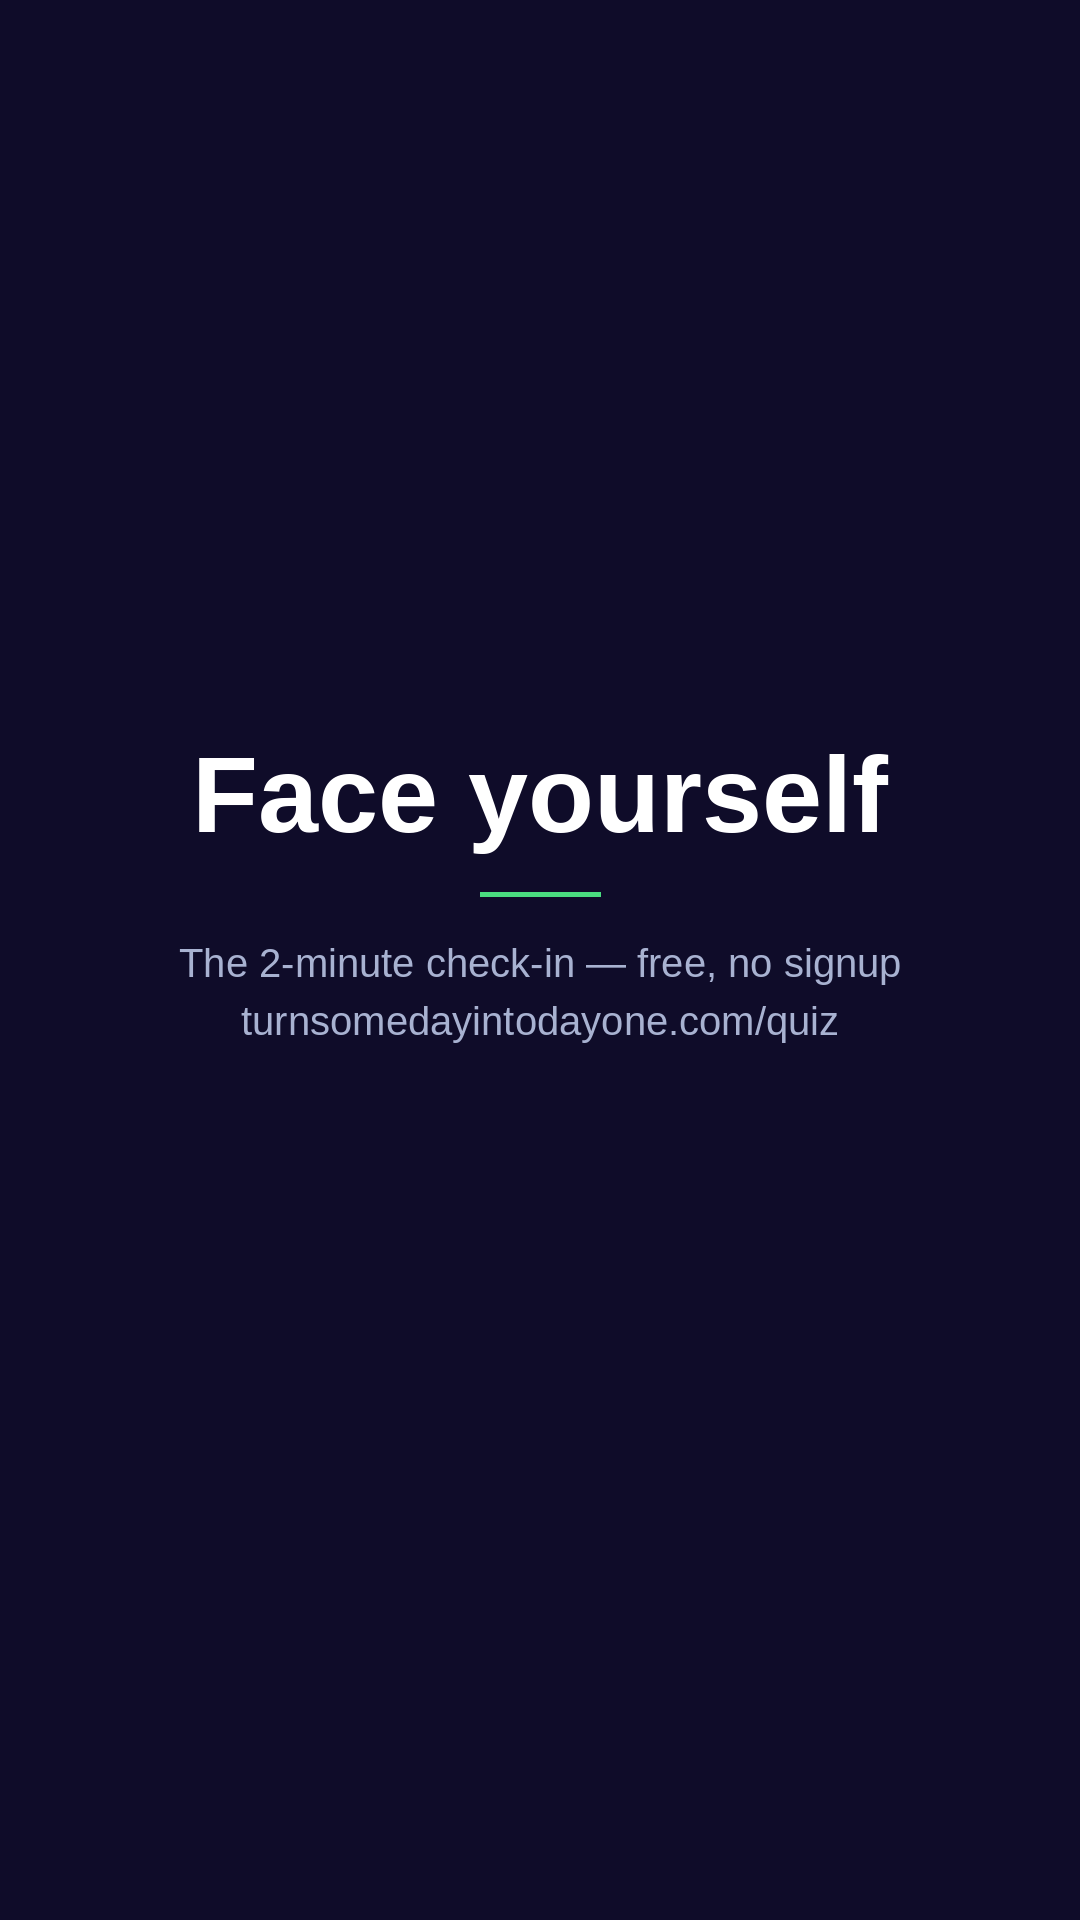
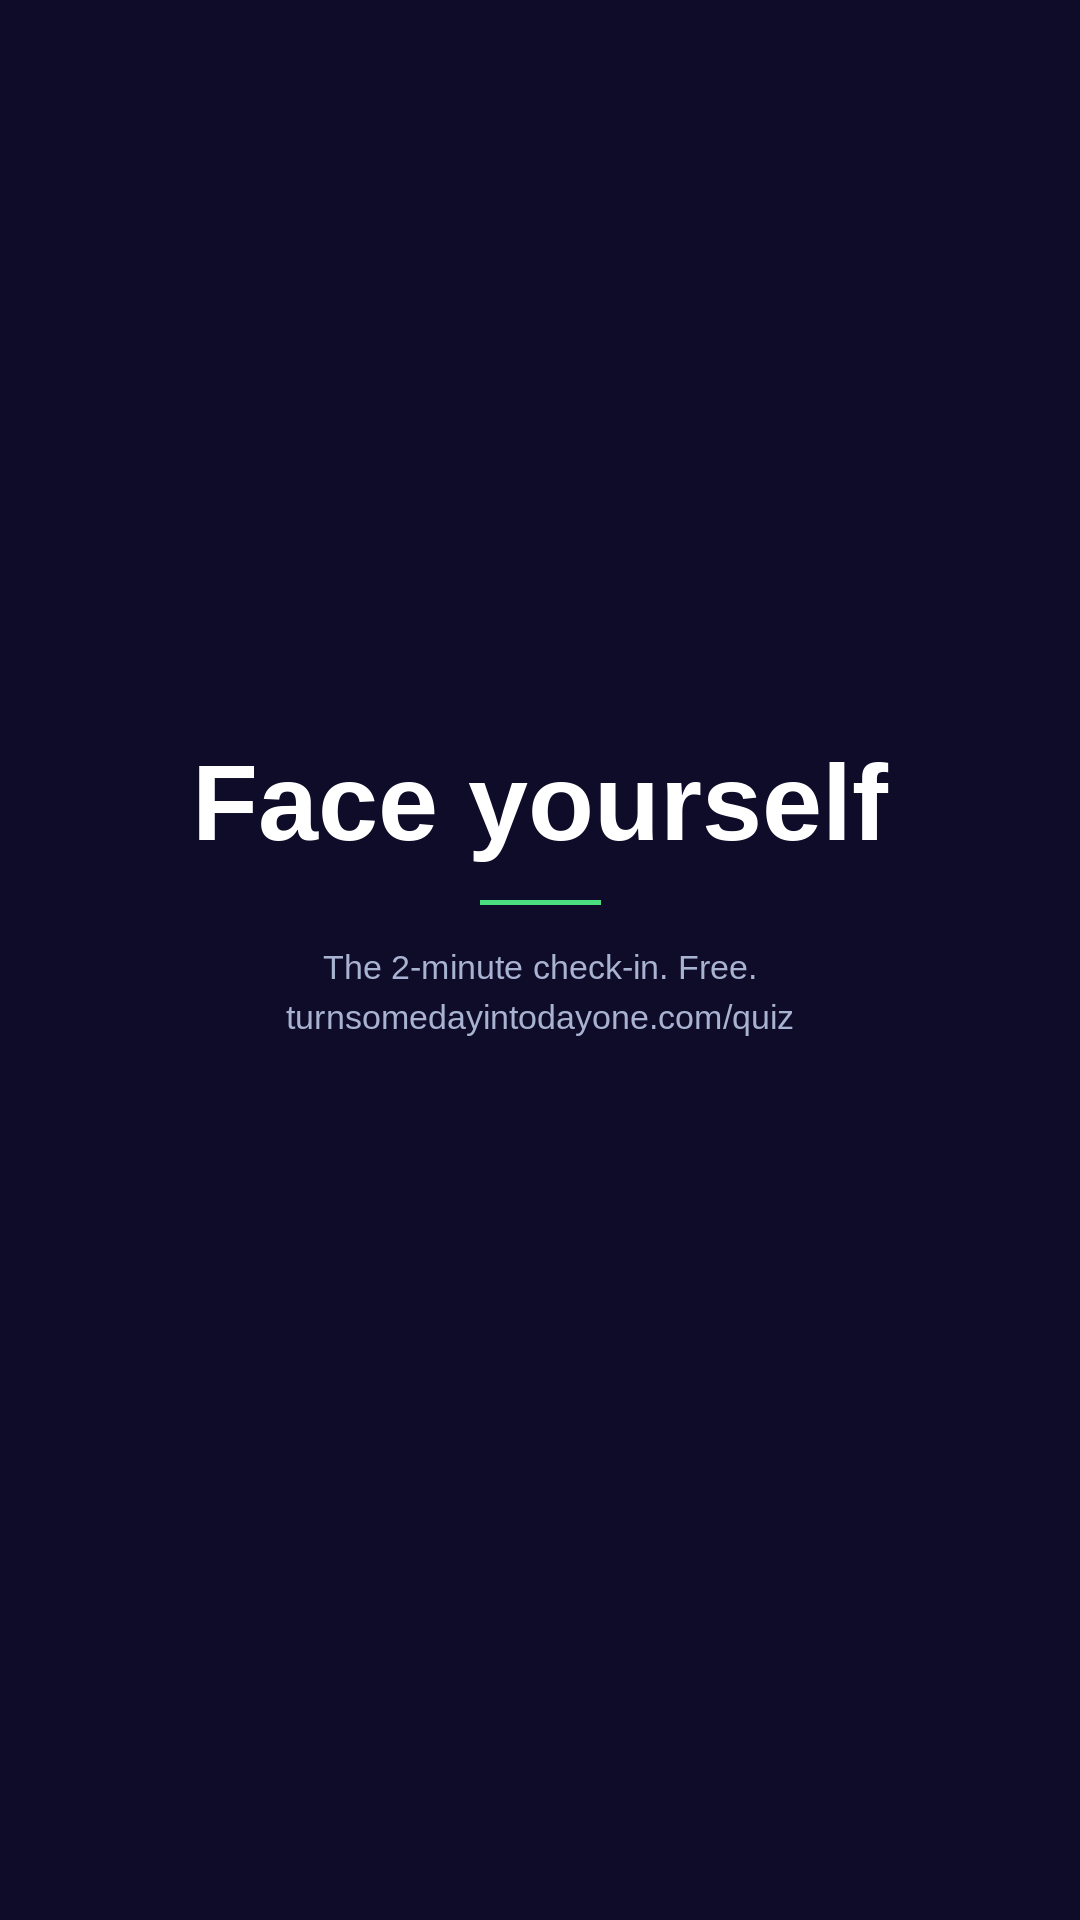
End cards: smaller sub-line, shorter copy

Changed region(s): [[0.2139, 0.4062, 0.825, 0.5625], [0.1833, 0.375, 0.3972, 0.4375], [0.7944, 0.375, 0.825, 0.4375]]

diff --git a/Studio/tools-make-end-cards.py b/Studio/tools-make-end-cards.py
@@ -30,8 +30,8 @@ OUT = os.path.join(os.path.dirname(os.path.abspath(__file__)), "end-cards")
 # (filename, big line, small line)
 CARDS = [
     ("let-me-be-honest", "Let me be honest", "38 years. Free at 50.\nturnsomedayintodayone.com"),
-    ("learn-to-love-yourself", "Learn to love yourself again", "Free. No card, no trial.\nturnsomedayintodayone.com"),
-    ("face-yourself", "Face yourself", "The 2-minute check-in — free, no signup\nturnsomedayintodayone.com/quiz"),
+    ("learn-to-love-yourself", "Learn to love yourself again", "Free. No card.\nturnsomedayintodayone.com"),
+    ("face-yourself", "Face yourself", "The 2-minute check-in. Free.\nturnsomedayintodayone.com/quiz"),
     ("keep-going", "Keep going", "turnsomedayintodayone.com"),
 ]
 
@@ -65,13 +65,16 @@ def build(name, big, small):
             break
         size -= 6
     f_big = ImageFont.truetype(BOLD, size)
-    f_small = ImageFont.truetype(REG, 40)
+    # 34, not 40, and measured against a much narrower column. At 40pt across
+    # the full width the sub-line ran almost edge to edge, which reads as
+    # cramped on a phone and is unreadable in the 3 seconds it is on screen.
+    f_small = ImageFont.truetype(REG, 34)
 
     big_lines = wrap(d, big, f_big, W - 160)
-    small_lines = wrap(d, small, f_small, W - 200)
+    small_lines = wrap(d, small, f_small, W - 380)
 
     big_h = len(big_lines) * (size + 18)
-    small_h = len(small_lines) * 58
+    small_h = len(small_lines) * 50
     # Sit the block slightly above centre — text centred in a 9:16 frame reads
     # low, because the eye finds the middle higher than the maths does.
     y = (H - big_h - small_h - 90) / 2 - 60
@@ -86,7 +89,7 @@ def build(name, big, small):
 
     for line in small_lines:
         d.text((W / 2, y), line, font=f_small, fill=SUB, anchor="ma")
-        y += 58
+        y += 50
 
     os.makedirs(OUT, exist_ok=True)
     path = os.path.join(OUT, f"{name}.png")
